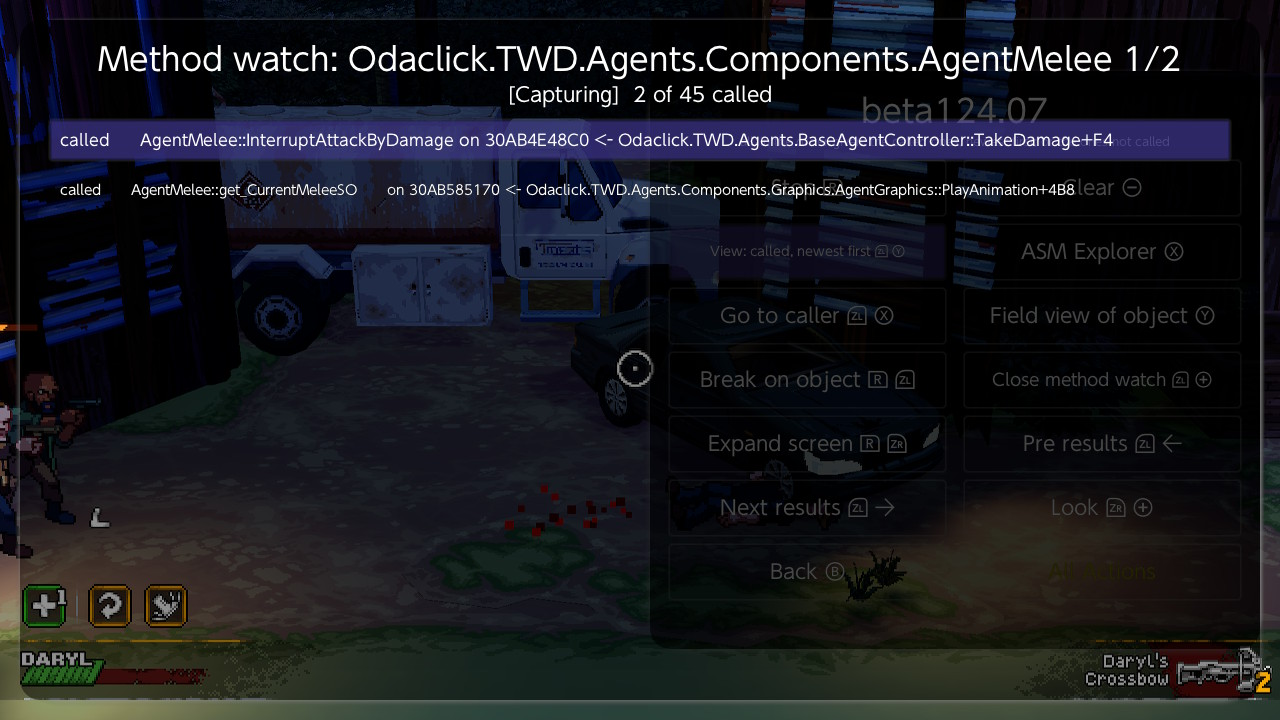
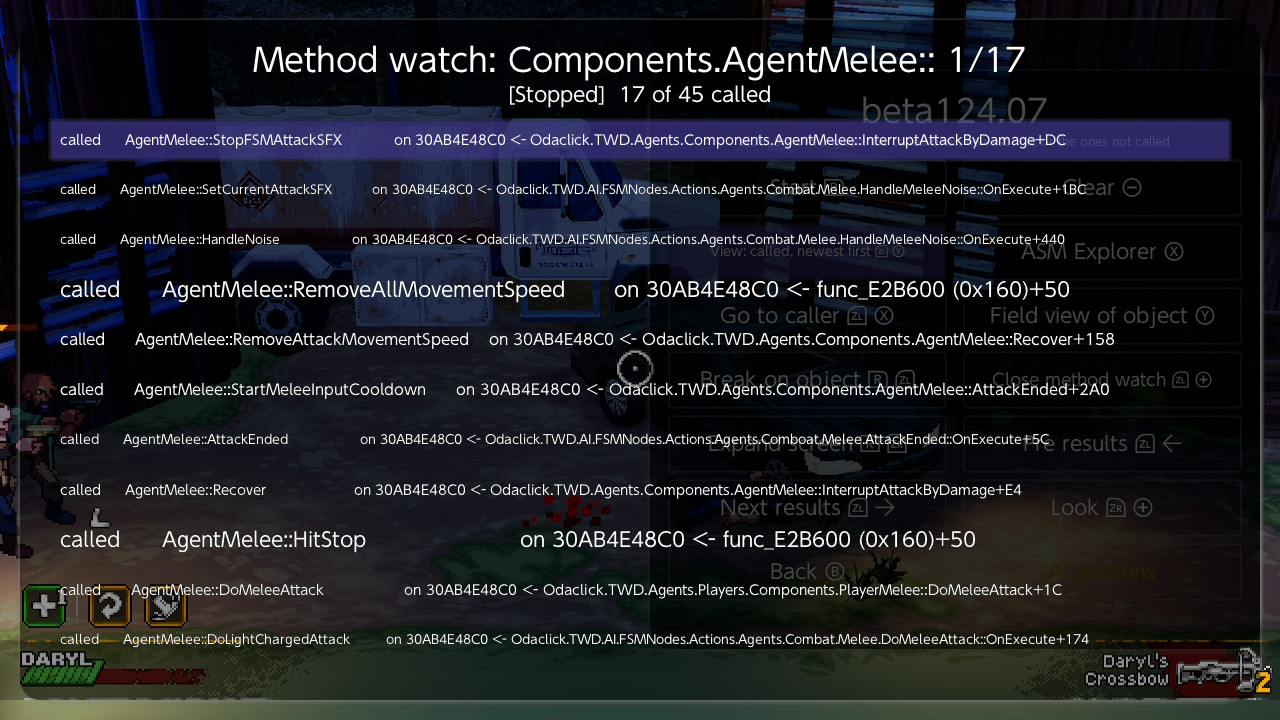
Code watch walkthrough: retake the method watch and field view screenshots

diff --git a/docs/code watch walkthrough.md b/docs/code watch walkthrough.md
@@ -81,11 +81,11 @@ This reads like the attack's story: `DoMeleeAttack`, called from `PlayerMelee::D
 
 Code watch tells you which functions ran, not which object they ran on. For that, hand the class to the method watch: with the cursor on the class (or inside it), press **Watch methods** (ZL + left stick click).
 
-The code watch stops and a method watch starts on that one class. Go back to the game for a moment, let something happen, and open Breeze again. Press **View** until it reads "called, newest first".
+The code watch stops and a method watch starts on that one class. Go back to the game, attack once or twice more, and open Breeze again. Press **View** until it reads "called, newest first".
 
 ![The method watch on AgentMelee: each called method with the object it ran on](./images/codewatch_09_method_watch.jpg)
 
-Each called method shows `on` followed by an address: the object it was called on. Here `InterruptAttackByDamage` ran on `30AB4E48C0`, called from `BaseAgentController::TakeDamage`.
+Each called method shows `on` followed by an address: the object it was called on. Here 17 of the class's 45 methods were called, all on `30AB4E48C0`: `DoMeleeAttack`, called from `PlayerMelee::DoMeleeAttack`, `HitStop`, `StartMeleeInputCooldown` and the rest. One address on every line means one object did all of it: the player's.
 
 ## 9. Open its fields
 
@@ -99,7 +99,7 @@ From here the usual tools take over: Edit value, Watch fields to see which of th
 
 ## 10. Stop
 
-Go back to the Method watch screen and press **Stop** (R). Stop takes every remaining break out of the game's code. Do not leave a watch running when you are done.
+Go back to the Method watch screen and press **Stop** (R) if the watch is still running; the screenshot above was taken after stopping. Stop takes every remaining break out of the game's code. Do not leave a watch running when you are done.
 
 ---
 
